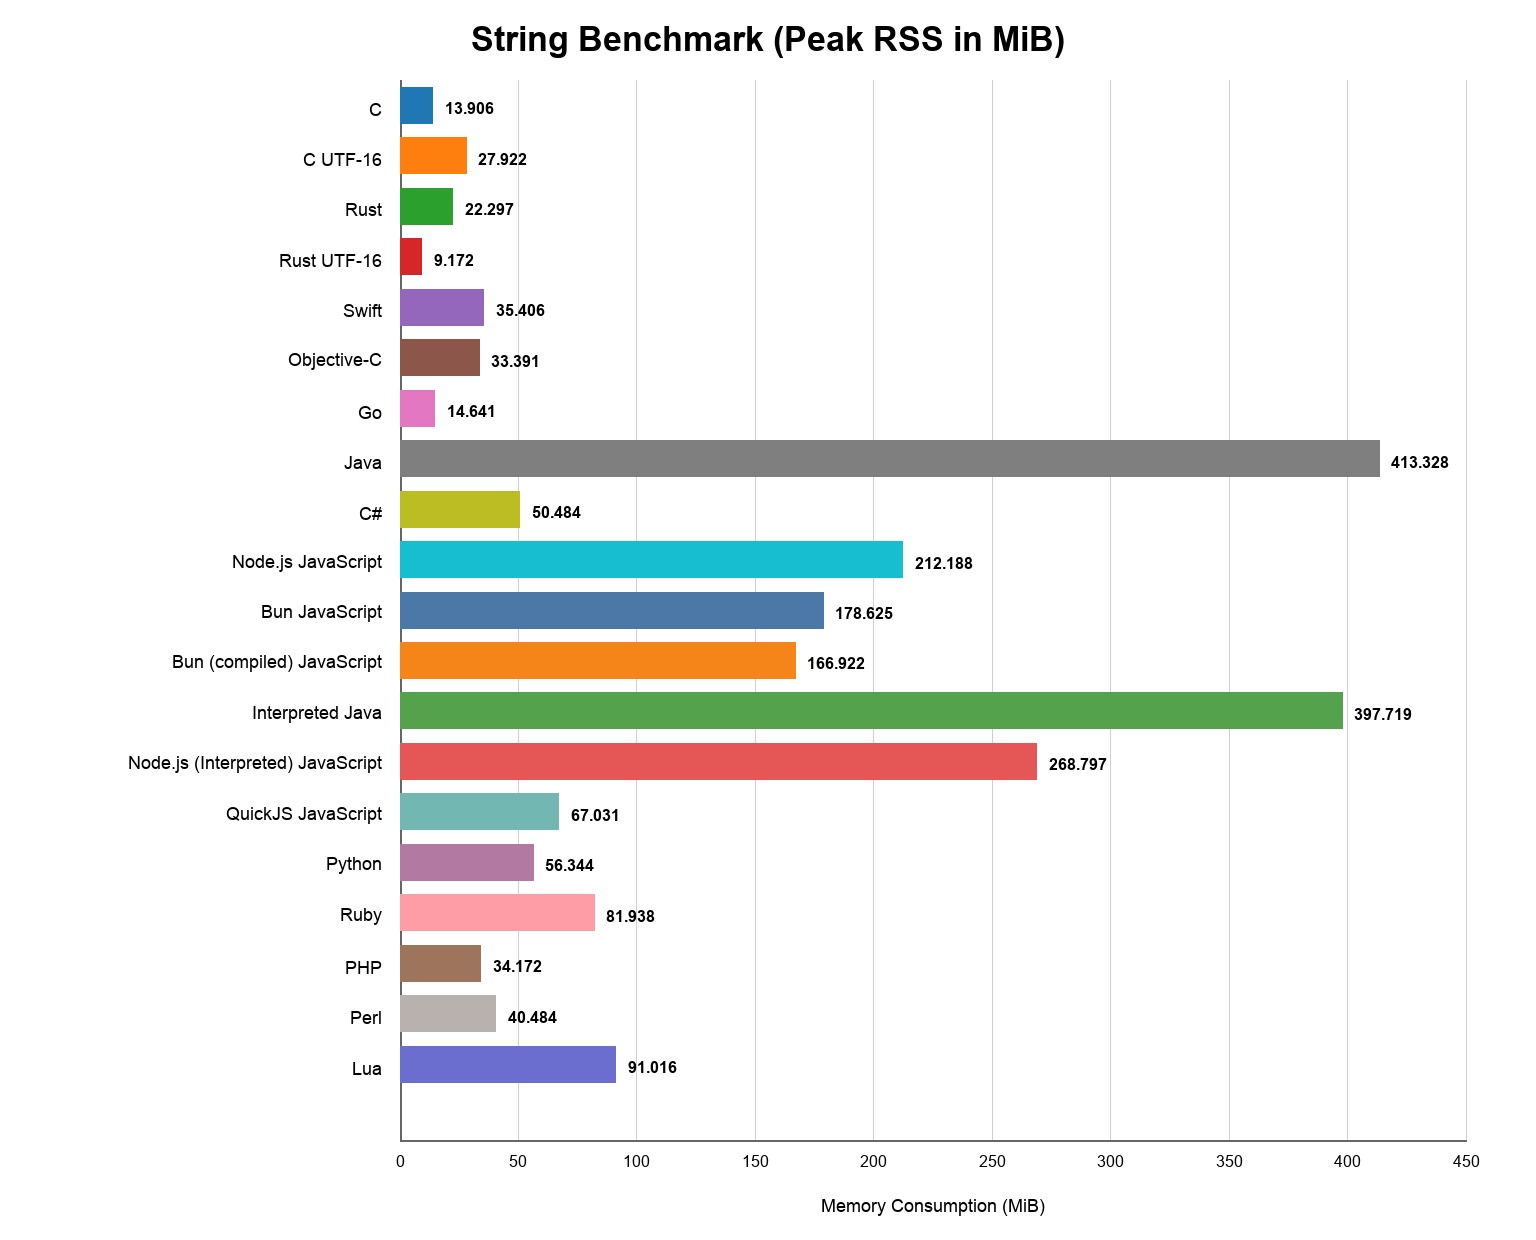
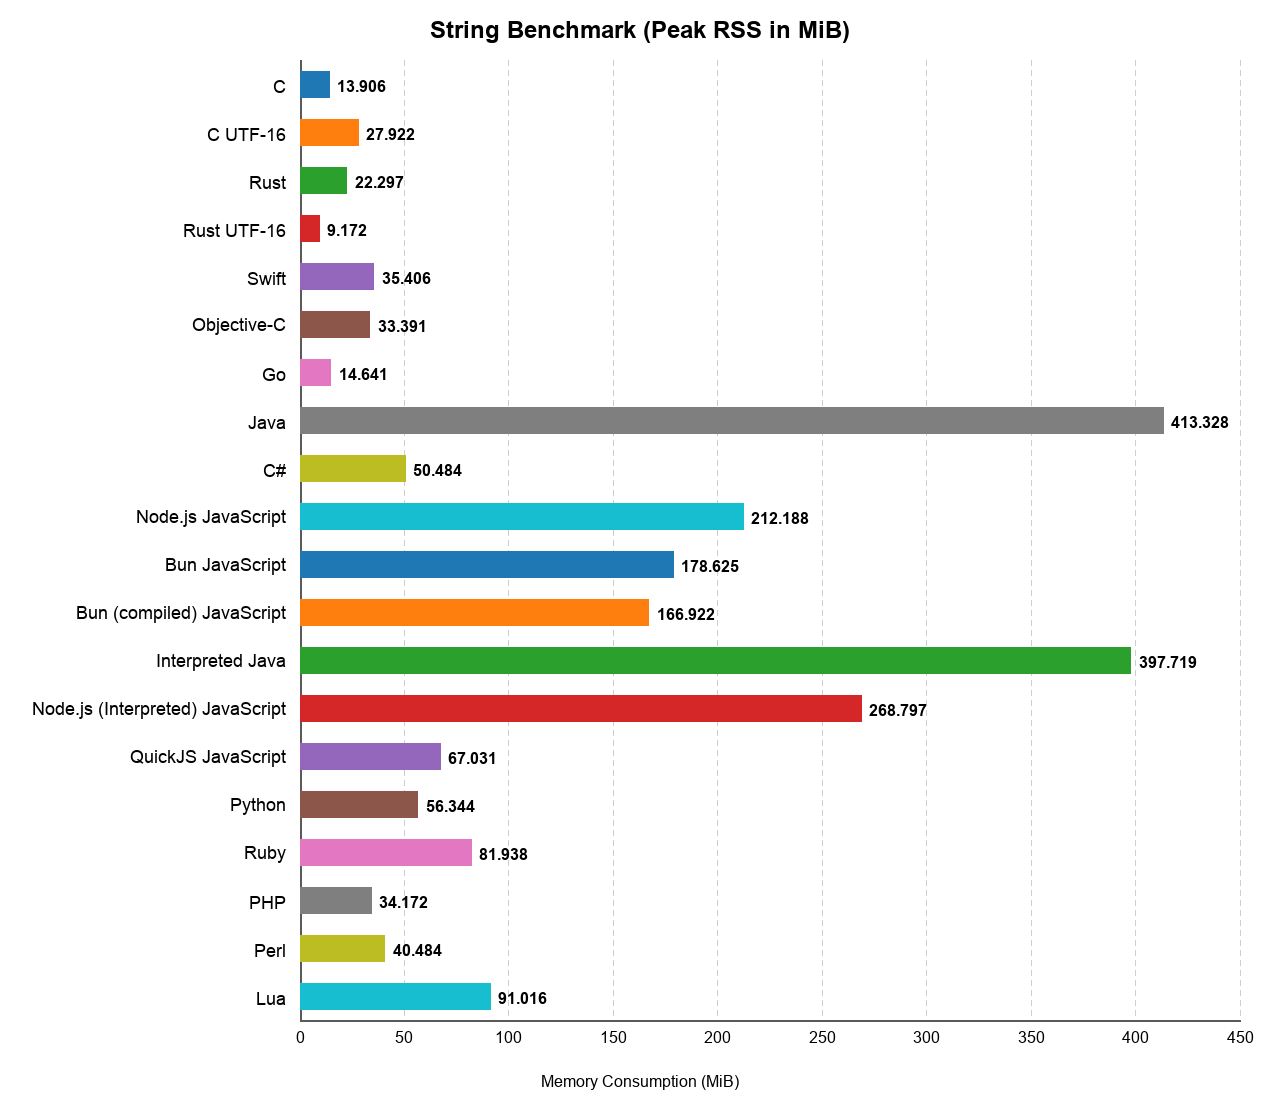
Document chart style and update all charts

diff --git a/README.md b/README.md
@@ -1,36 +1,32 @@
-# Multi-lang Benchmarks
+Multi-lang Benchmarks
+=====================
 
 Compare performance of multiple popular languages across different tasks.
 
-## Benchmarks
+
+Benchmarks
+----------
 
 - [String Benchmark](./String%20Benchmark/README.md)
 - [Fractal Benchmark](./Fractal%20Benchmark/README.md)
+- [Integer Benchmark](./Integer%20Benchmark/README.md)
 
 
-## Tested Languages
+Tested Languages
+----------------
 
-- **C:** Native optimized baseline implementation compiled with
-  `clang -O3`.
-- **Rust:** Native optimized Rust implementation compiled with
-  `rustc -C opt-level=3`.
+- **C:** Native optimized baseline implementation compiled with `clang -O3`.
+- **Rust:** Native optimized Rust implementation compiled with `rustc -C opt-level=3`.
 - **Swift:** Native optimized Swift implementation run with `swift -O`.
-- **Objective-C:** Objective-C implementation built against Foundation,
-  only included where that higher-level runtime is expected to matter.
+- **Objective-C:** Objective-C implementation built against Foundation, only included where that higher-level runtime is expected to matter.
 - **Go:** Native compiled Go implementation built with `go build`.
 - **Java:** Normal JVM execution with JIT compilation enabled.
-- **Java (interpreted):** JVM execution forced into interpreter mode
-  with `java -Xint`, disabling JIT compilation.
-- **C#:** C# implementation compiled with `mcs` and run on Mono with
-  optimizations enabled.
-- **Node.js JavaScript:** Standard Node.js execution with the normal
-  V8 JIT pipeline enabled.
-- **Node.js (Interpreted) JavaScript:** Node.js run with `--jitless`,
-  disabling the V8 JIT so execution stays in non-JIT mode.
-- **QuickJS JavaScript:** JavaScript executed with QuickJS instead of
-  Node.js and V8.
-- **Python:** CPython execution using `python` or `python3`, depending
-  on what is available.
+- **Java (interpreted):** JVM execution forced into interpreter mode with `java -Xint`, disabling JIT compilation.
+- **C#:** C# implementation compiled with `mcs` and run on Mono with optimizations enabled.
+- **Node.js JavaScript:** Standard Node.js execution with the normal V8 JIT pipeline enabled.
+- **Node.js (Interpreted) JavaScript:** Node.js run with `--jitless`, disabling the V8 JIT so execution stays in non-JIT mode.
+- **QuickJS JavaScript:** JavaScript executed with QuickJS instead of Node.js and V8.
+- **Python:** CPython execution using `python` or `python3`, depending on what is available.
 - **Ruby:** Standard Ruby interpreter execution.
 - **PHP:** Standard PHP CLI interpreter execution.
 - **Perl:** Standard Perl interpreter execution.
@@ -39,3 +35,28 @@ Compare performance of multiple popular languages across different tasks.
 Objective-C and C++ are only benchmarked when they can use their standard libraries at a meaningfully higher level than plain C. Both can of course also fall back to the same C implementation style when that is better for performance, so these benchmarks are not mainly about absolute performance. They are included to show how much higher-level objects and abstractions can slow things down compared to a C-style baseline.
 
 Kotlin and TypeScript are not benchmarked separately because the same results as Java and JavaScript are expected in these cases.
+
+
+Chart Style
+-----------
+
+Benchmark result charts should use one shared visual style across all benchmark folders so regenerated assets stay comparable over time.
+
+- Use horizontal bar charts on a white background.
+- Use a chart width of 1280 px.
+- Use Arial for labels and axis text, and Arial Bold for titles and value labels.
+- Use a 24 px title font size.
+- Use a 16 px font size for axis text and numeric value labels.
+- Use an 18 px font size for language labels on the y-axis.
+- Use a left chart margin of 300 px, a right margin of 40 px, a top plot margin of 60 px, and a bottom margin of 84 px.
+- The left chart margin includes the y-axis labels. The plotted bars should start at the right edge of that margin.
+- If a y-axis label does not fit into the left chart margin at the default font size, reduce that label's font size until it fits, down to a minimum of 13 px.
+- Use a row height of 48 px and a bar height of 26 px.
+- Center the title horizontally near the top with the benchmark name followed by either `(Elapsed Time in Seconds)` or `(Peak RSS in MiB)`.
+- Draw a solid left and bottom axis line in a medium gray.
+- Draw vertical grid lines in a light gray dashed style.
+- Place language labels to the left of the bars and numeric value labels just to the right of the bar ends.
+- Format displayed benchmark values with three decimal places.
+- Label the x-axis as `Elapsed Time (seconds)` for time charts and `Memory Consumption (MiB)` for memory charts.
+- Keep one bar per benchmarked language in README table order.
+- Use the same repeating color palette for every benchmark chart.
